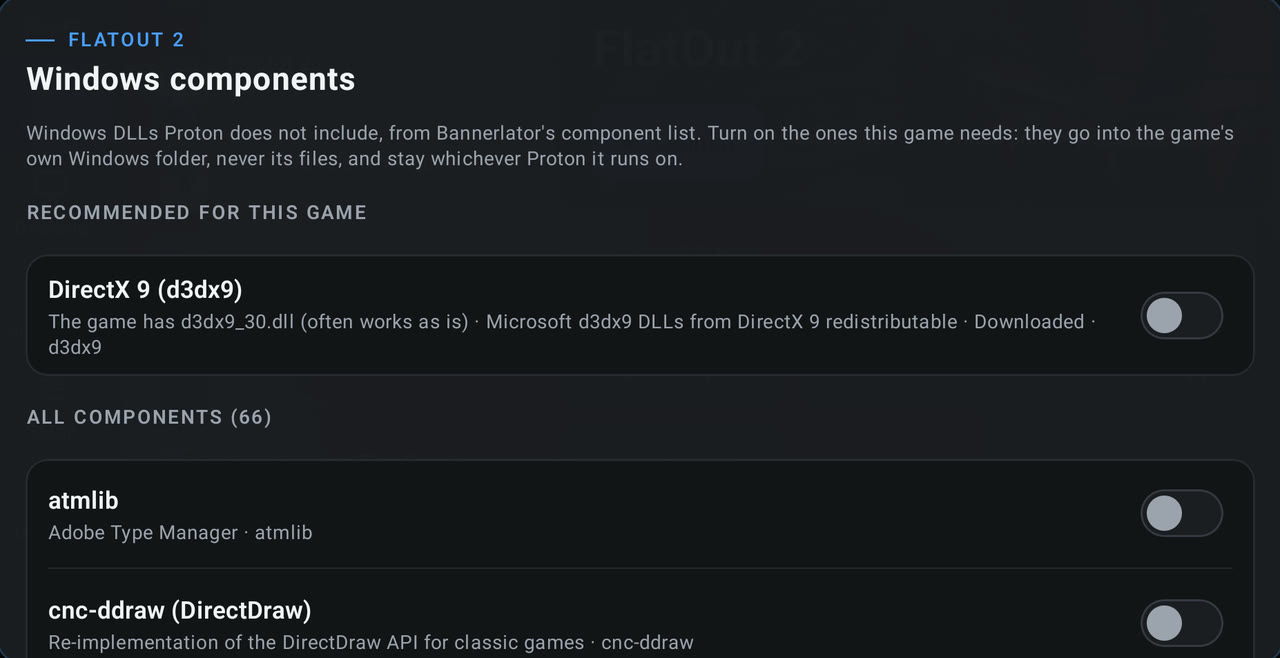
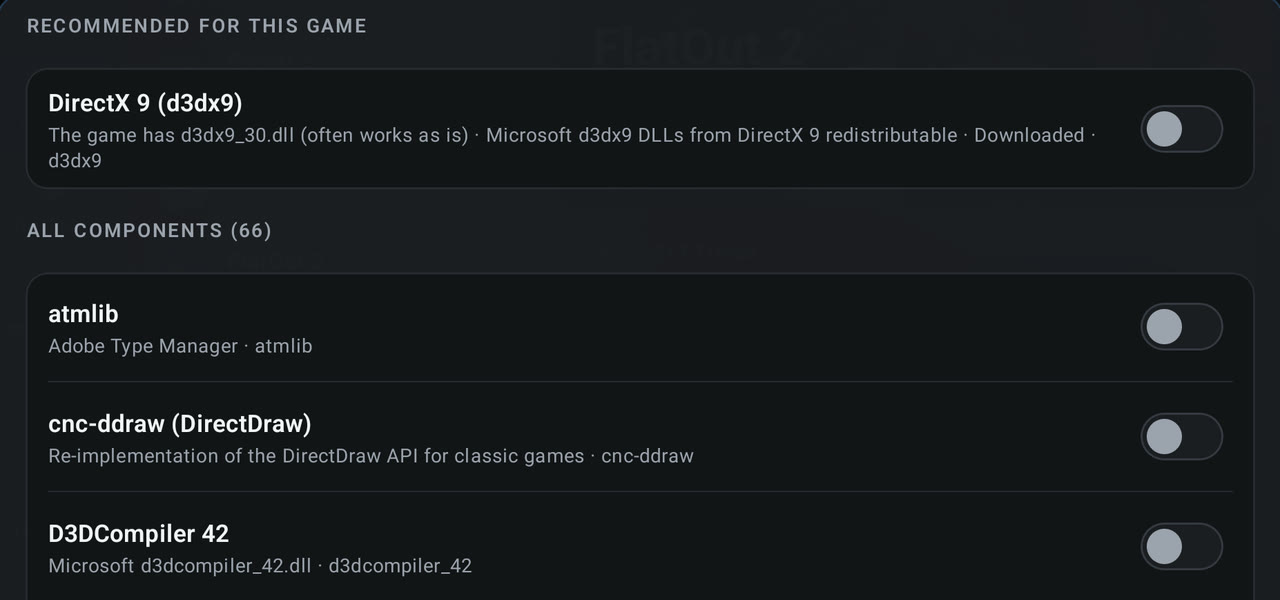
docs: use newer windows components screenshot in 0.3.2 notes

diff --git a/docs/releases/0.3.2.md b/docs/releases/0.3.2.md
@@ -14,7 +14,7 @@
 - SD cards and external drives can now be used as full **Steam libraries**. (@maxjivi05, [#388](https://github.com/Droid-Deck/DroidDeck/pull/388))
 - Added per-game **Windows components** with automatic dependency recommendations for Steam and non Steam games. (@The412Banner, [#287](https://github.com/Droid-Deck/DroidDeck/pull/287))
 
-  <img src="media/0.3.2/windows-components.jpg" width="50%" alt="Windows components for FlatOut 2, recommending DirectX 9 (d3dx9) above the full list of 66 components">
+  <img src="media/0.3.2/windows-components.jpg" width="50%" alt="Windows components for FlatOut 2: DirectX 9 (d3dx9) recommended for this game, above the full list of 66 components">
 
 - Added XNA, PhysX, Games for Windows Live, MSXML and other Windows components without needing to run their original installers. (@The412Banner, [#347](https://github.com/Droid-Deck/DroidDeck/pull/347))
 - Added optional **Force SSBS** for ARM64 Proton games on supported CPUs. (@The412Banner, [#328](https://github.com/Droid-Deck/DroidDeck/pull/328))
